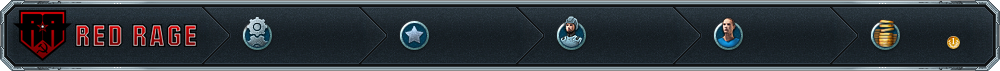
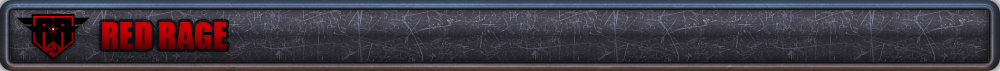
update (top menu)

diff --git a/static/main.css b/static/main.css
@@ -1,107 +1,112 @@
+    body {
+        background-color: #051823; /* ???? ???? ???-???????? */
+    }
+		
+	.container {
+        display: block;
+        margin-right: auto;
+        margin-left: auto;
+    }
 
-body {
-    background-color: #051823; /* ???? ???? ???-???????? */
-    margin: 0 auto 0 auto;
-    position: relative;
-}
+    .panel {
+        display: block;
+        margin-right: auto;
+        margin-left: auto;
+        width: 1000px;
+    }
 
-.container {
-    display: block;
-    margin-right: auto;
-    margin-left: auto;
-}
+    .top-panel {
+        background-image: url("/img/top-panel.png");
+        width: 1000px;
+        height: 71px;
+        position: relative;
+        margin: 4px 0;
+    }
 
-.panel {
-    display: block;
-    margin-right: auto;
-    margin-left: auto;
-    width: 1000px;
-}
+    .top-panel-point {
+        position: absolute;
+        height: 43px;
+        width: 70px;
+        display: inline-block;
+        z-index: 2;
+    }
 
-.top-panel {
-    background-image: url("/static/img/top-panel.png");
-    width: 1000px;
-    height: 71px;
-    position: relative;
-    margin: 4px 0;
-}
+    .top-logo {
+        left: 15px;
+        width: 218px !important;
+    }
 
-.top-panel-point {
-    position: absolute;
-    top: 7px;
-    height: 43px;
-    width: 70px;
-    padding: 14px 32px 0 55px;
-    color: #58707f;
-    font-size: 12px;
-    font-family: "Myriad Pro";
-    text-decoration: none;
-    display: block;
-    z-index: 2;
-}
+    .top-install {
+        background: url("img/1_not_activ.png") no-repeat;
+        width: 176px;
+        height: 71px;
+        left: 235px;
+    }
 
-.top-logo {
-    left: 7px;
-    width: 137px !important;
-}
+    .top-add {
+        background: url("img/4_not_activ.png") no-repeat;
+        width: 176px;
+        height: 71px;
+        left: 386px;
+    }
 
-.top-add {
-    left: 388px;
-}
+    .top-group {
+        background: url("img/2_not_activ.png") no-repeat;
+        width: 176px;
+        height: 71px;
+        left: 537px;
+    }
 
-.top-install {
-    left: 231px;
-}
+    .top-invate {
+        background: url("img/3_not_activ.png") no-repeat;
+        width: 176px;
+        height: 71px;
+        left: 688px;
+    }
 
-.top-group {
-    left: 545px;
-}
+    .top-prize {
+        background: url("img/5_not_activ.png") no-repeat;
+        height: 71px;
+        left: 839px;
+        width: 160px !important;
+    }
+	
+	.top-panel-point:hover {
+        color: #fcfcfc;
+        text-decoration: underline;
+    }
 
-.top-invate {
-    left: 702px;
-}
+    .done {
+        background: url("img/1_activ.png") no-repeat;
+        width: 176px;
+        height: 71px;
+        left: 235px;
+    }
 
-.top-prize {
-    left: 859px;
-    width: 47px !important;
-}
+    .done_2{
+        background: url("img/4_activ.png") no-repeat;
+        width: 176px;
+        height: 71px;
+        left: 386px;
+    }
 
-.top-panel-point:hover {
-    color: #fcfcfc;
-    text-decoration: underline;
-}
+    .done_3{
+        background: url("img/2_activ.png") no-repeat;
+        width: 176px;
+        height: 71px;
+        left: 537px;
+    }
 
-.done {
-    background-image: url("/static/img/top-active.png");
-    padding-left: 83px;
-    left: 203px;
-    color: #ffffff !important;
-}
+    .done_4{
+        background: url("img/3_activ.png") no-repeat;
+        width: 176px;
+        height: 71px;
+        left: 688px;
+    }
 
-.done_2{
-    background-image: url("/static/img/top-active.png");
-    padding-left: 83px;
-    left: 360px;
-    color: #ffffff !important;
-}
-
-.done_3{
-    background-image: url("/static/img/top-active.png");
-    padding-left: 83px;
-    left: 517px;
-    color: #ffffff !important;
-}
-
-.done_4{
-    background-image: url("/static/img/top-active.png");
-    padding-left: 83px;
-    left: 674px;
-    color: #ffffff !important;
-}
-
-.done_5 {
-    padding-left: 75px !important;
-    background-image: url("/static/img/gold-active.png");
-    color: #ffffff !important;
-    left: 839px !important;
-}
+    .done_5 {
+        background: url("img/5_activ.png") no-repeat;
+        height: 71px;
+        left: 839px;
+        width: 160px !important;
+    }

diff --git a/static/indexrr.php b/static/indexrr.php
@@ -367,19 +367,21 @@ session_write_close();
 <body>
 
 <div class="container">
-<div class="panel panel-top">
-    <div class="top-panel">
-        <a href="#" class="top-panel-point top-logo"></a>
-        <a href="#"   class="top-panel-point top-install top-active done">Установить приложение</a>
-        <a href="#" id="bookmarks" class="top-panel-point top-add">Добавить в закладки</a>
-        <a href="https://vk.com/redrage3d"  id="group" target="_blank" class="top-panel-point top-group">Вступить в группу</a>
-        <a href="#" id="invite" class="top-panel-point top-invate">Пригласить друга</a>
-        <div id="prize" class="top-panel-point top-prize">Награда 200</div>
+    <div class="panel panel-top">
+        <div class="top-panel">
+            <a href="#" class="top-panel-point top-logo"></a>
+
+            <a href="#"   class="top-panel-point top-install"></a>
+            <a href="#" id="bookmarks" class="top-panel-point top-add"></a>
+            <a href="https://vk.com/redrage3d"  id="group" target="_blank" class="top-panel-point top-group"></a>
+            <a href="#" id="invite" class="top-panel-point top-invate"></a>
+
+            <div id="prize" class="top-panel-point top-prize"></div>
+        </div>
     </div>
 </div>
-</div>
 
-<div id="unityPlayer" style="height:720px;">
+<div id="unityPlayer" style="height:720px; margin-left:20px;">
     <div class="missing">
         <a href="http://unity3d.com/webplayer/" title="Unity Web Player. Install now!">
             <img alt="Unity Web Player. Install now!" src="http://webplayer.unity3d.com/installation/getunity.png" width="193" height="63" />
